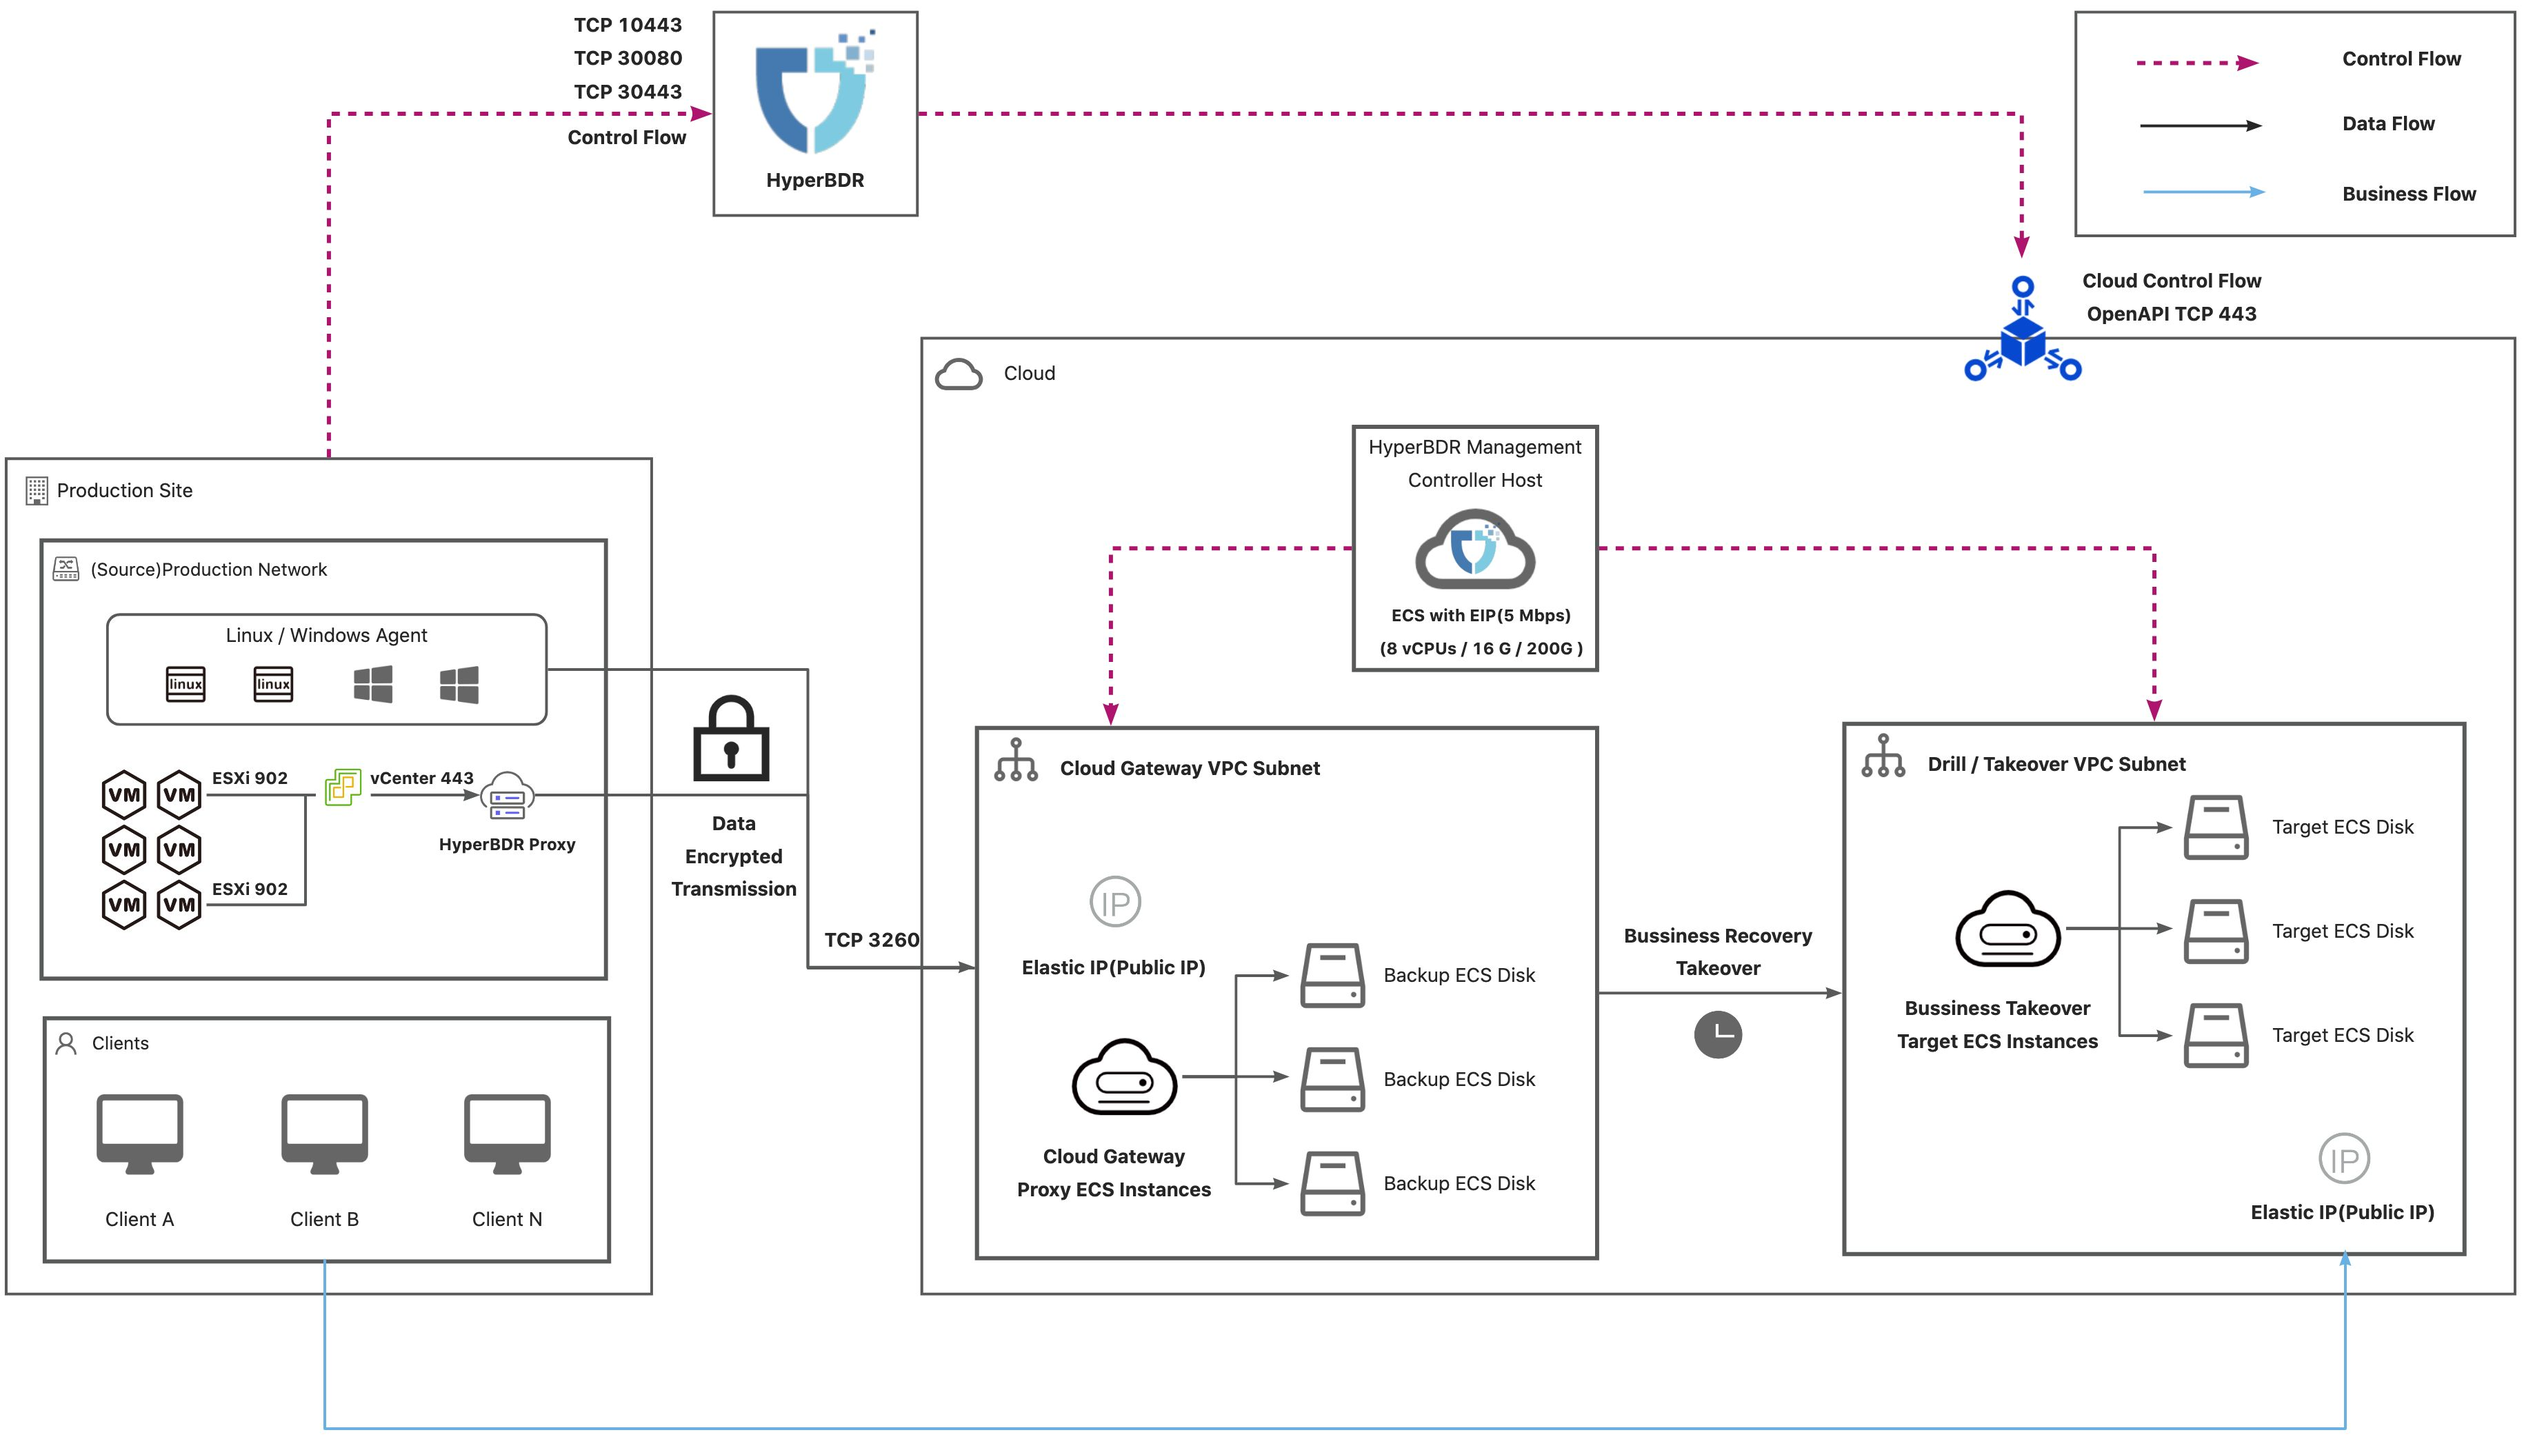
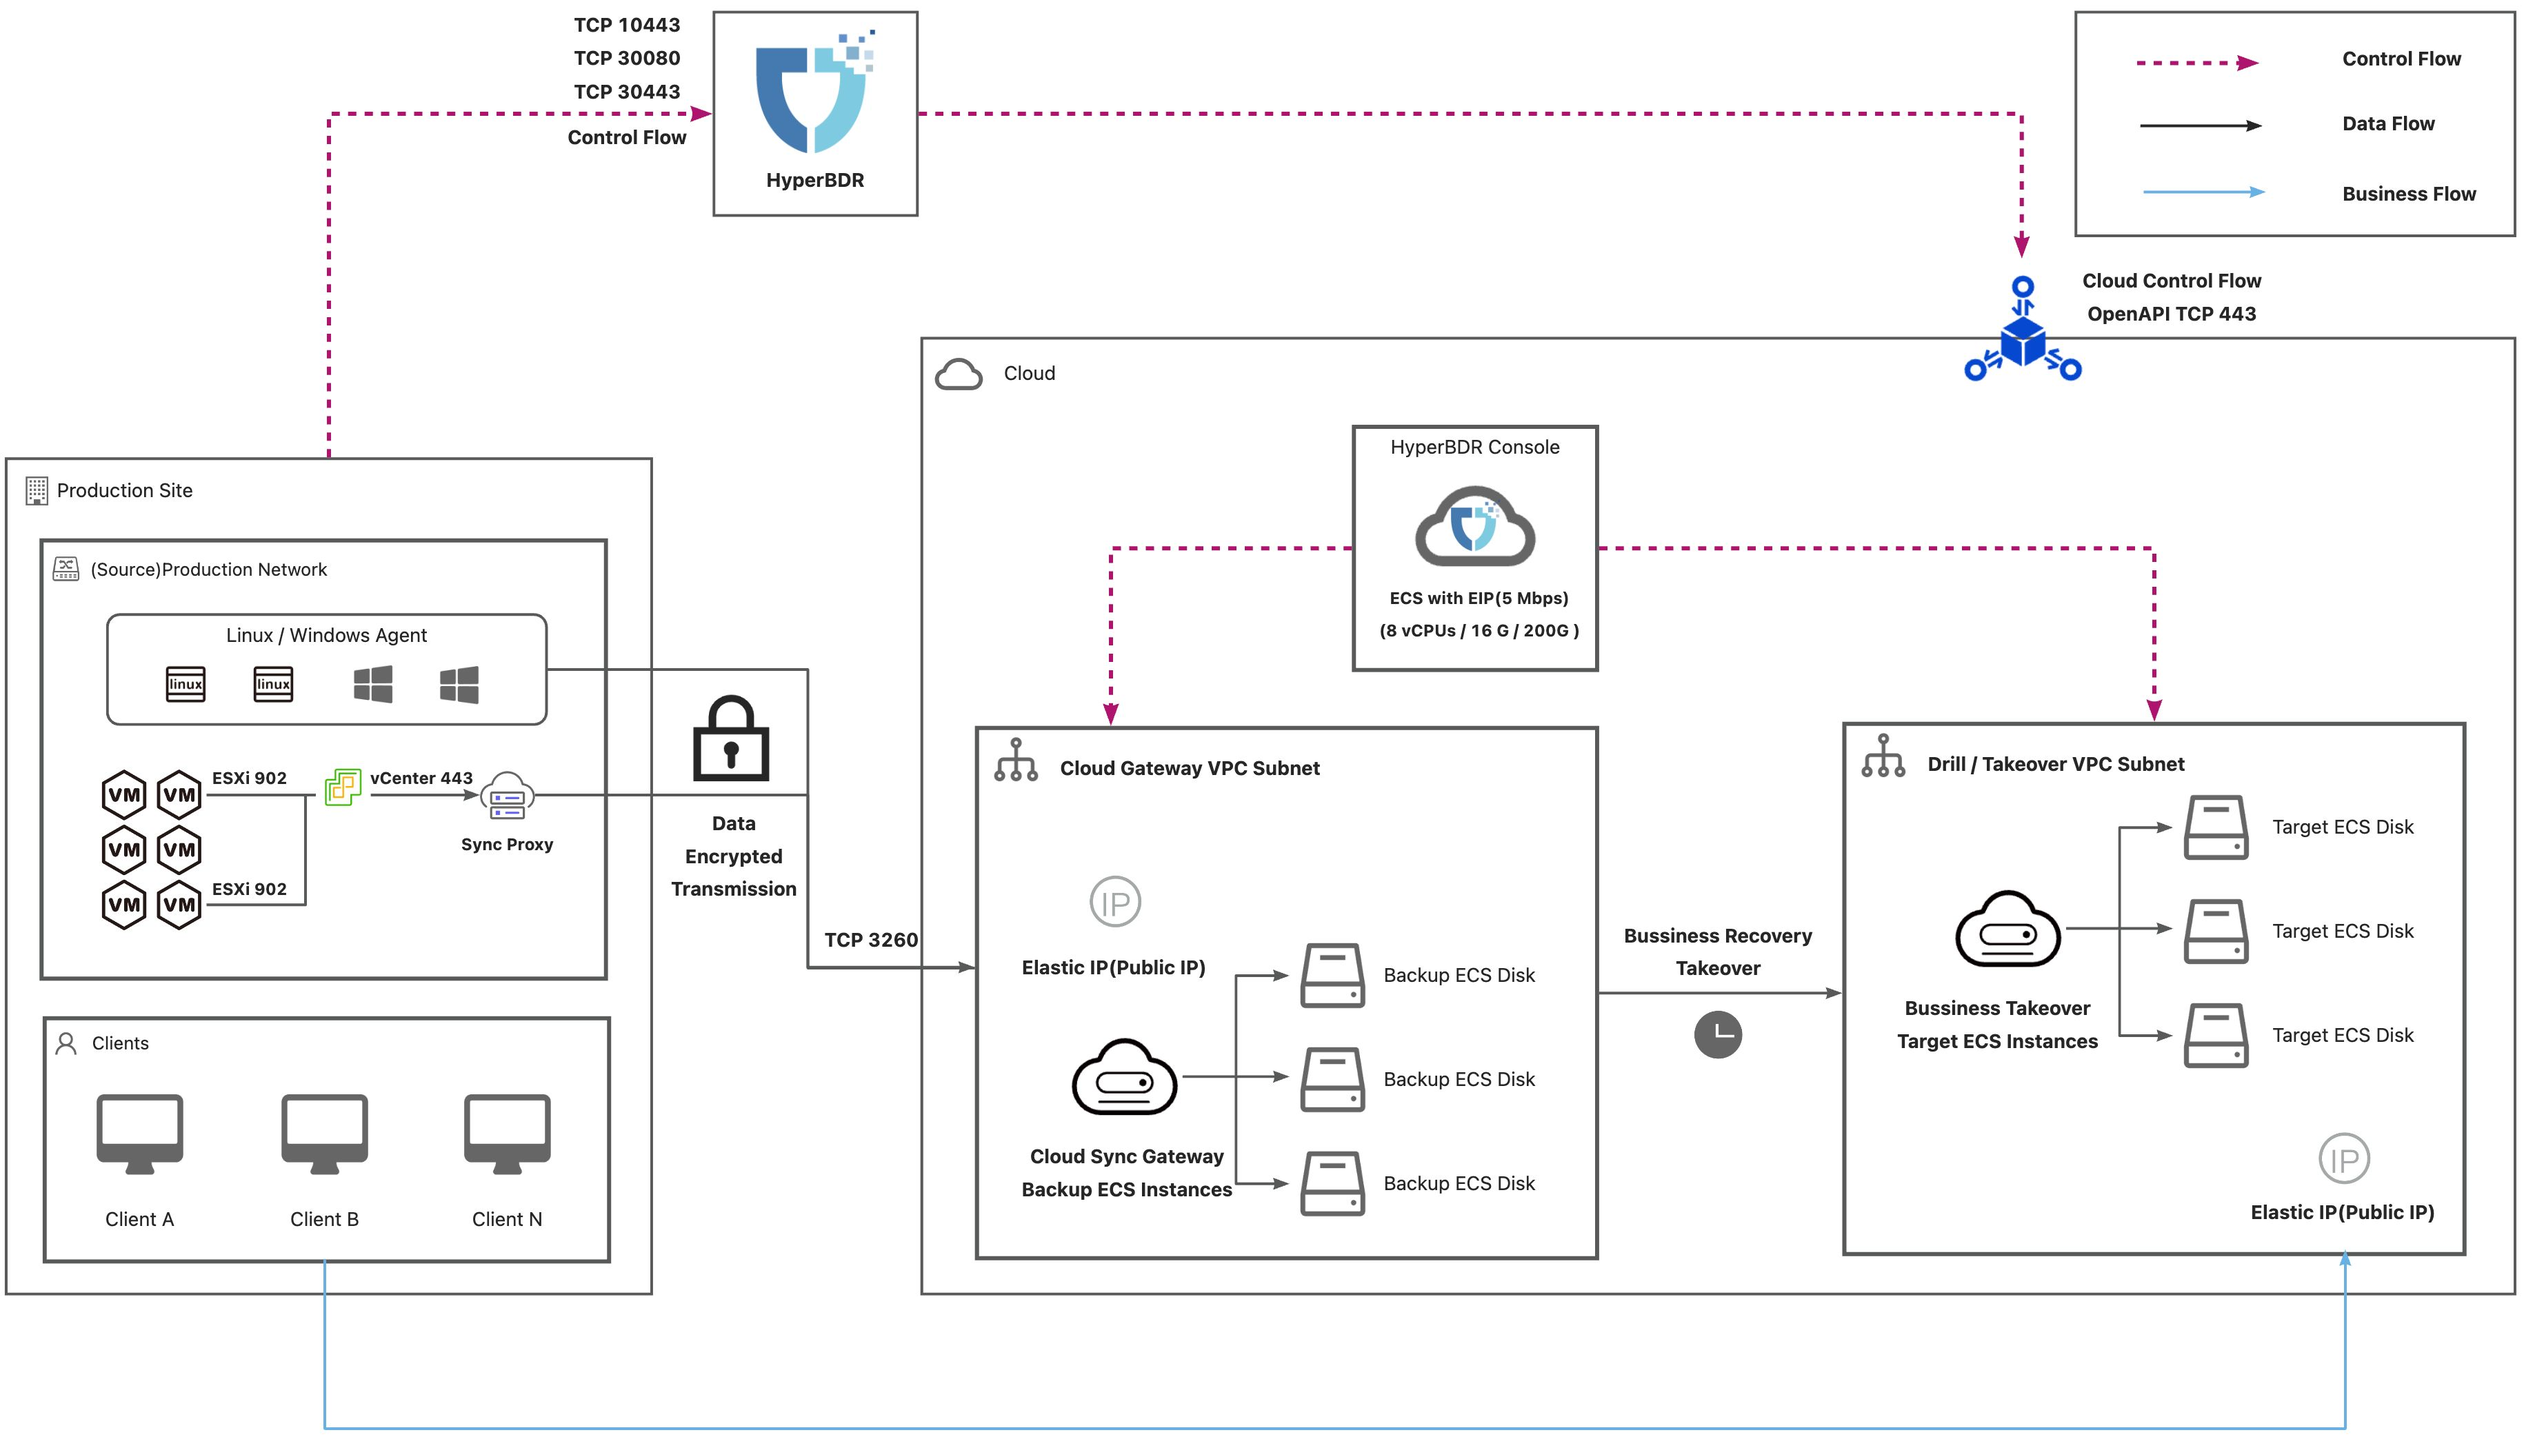
Change the product unified noun in the Chinese document

diff --git a/src/zh/userguide/presales/dr-network-planning-recommendations.md b/src/zh/userguide/presales/dr-network-planning-recommendations.md
@@ -32,25 +32,25 @@
 
 | **编号** | **来源** | **目标** | **方向** | **端口** | **类型** | **备注** |
 | --- | --- | --- | --- | --- | --- | --- |
-| 1 | Agent | HyperBDR | TCP 单向 | 10443 / 30080 | 控制流 |
+| 1 | Agent | HyperBDR Console | TCP 单向 | 10443 / 30080 | 控制流 |
 | 2 | Agent | 对象存储服务 | TCP 单向 | 443 | 数据流 |
-| 3 | HyperBDR | 对象存储服务 | TCP 单向 | 443 | 控制流 |
-| 4 | HyperBDR | Drill/Takeover VM | TCP 单向 | 10729 | 控制流 | 必须在 HyperBDR 和容灾演练/接管VM 的 VPC 之间建立 VPC Peering。端口配置将由安全组自动设置，无需特定设置。 |
-| 5 | HyperBDR | 云 API | TCP 单向 | 443 | 控制流 |
-| 6 | Drill/Takeover VM | 对象存储服务 | TCP 单向 | 443 | 数据流 |
+| 3 | HyperBDR Console | 对象存储服务 | TCP 单向 | 443 | 控制流 |
+| 4 | HyperBDR Console | Transition Host | TCP 单向 | 10729 | 控制流 | 必须在 HyperBDR Console 和容灾演练/接管VM 的 VPC 之间建立 VPC Peering。端口配置将由安全组自动设置，无需特定设置。 |
+| 5 | HyperBDR Console | 云 API | TCP 单向 | 443 | 控制流 |
+| 6 | Transition Host | 对象存储服务 | TCP 单向 | 443 | 数据流 |
 
 #### VMware 无代理
 
 | **编号** | **来源** | **目标** | **方向** | **端口** | **类型** | **备注** |
 | --- | --- | --- | --- | --- | --- | --- |
-| 1 | HyperBDR Proxy | vCenter | TCP 单向 | 443 | 控制流 |  |
-| 2 | HyperBDR Proxy | ESXi | TCP 单向 | 902 | 数据流 | 所有由 vCenter 管理的 ESXi 的端口 902 |
-| 3 | HyperBDR Proxy | HyperBDR | TCP 单向 | 10443 / 30080 | 控制流 |  |
-| 4 | HyperBDR Proxy | 对象存储服务 | TCP 单向 | 443 | 数据流 |  |
-| 5 | HyperBDR | 对象存储服务 | TCP 单向 | 443 | 控制流 |  |
-| 6 | HyperBDR | Drill/Takeover VM | TCP 单向 | 10729 | 控制流 | 必须在 HyperBDR 和容灾演练/接管VM 的 VPC 之间建立 VPC Peering。端口配置将由安全组自动设置，无需特定设置。 |
-| 7 | HyperBDR | 云 API | TCP 单向 | 443 | 控制流 |  |
-| 8 | Drill/Takeover VM | 对象存储服务 | TCP 单向 | 443 | 数据流 |
+| 1 | Sync Proxy | vCenter | TCP 单向 | 443 | 控制流 |  |
+| 2 | Sync Proxy | ESXi | TCP 单向 | 902 | 数据流 | 所有由 vCenter 管理的 ESXi 的端口 902 |
+| 3 | Sync Proxy | HyperBDR | TCP 单向 | 10443 / 30080 | 控制流 |  |
+| 4 | Sync Proxy | 对象存储服务 | TCP 单向 | 443 | 数据流 |  |
+| 5 | HyperBDR Console | 对象存储服务 | TCP 单向 | 443 | 控制流 |  |
+| 6 | HyperBDR Console | Transition Host | TCP 单向 | 10729 | 控制流 | 必须在 HyperBDR Console 和容灾演练/接管VM 的 VPC 之间建立 VPC Peering。端口配置将由安全组自动设置，无需特定设置。 |
+| 7 | HyperBDR Console | 云 API | TCP 单向 | 443 | 控制流 |  |
+| 8 | Transition Host | 对象存储服务 | TCP 单向 | 443 | 数据流 |
 
 ### 部署架构
 
@@ -83,21 +83,21 @@
 
 | **编号** | **来源** | **目标** | **方向** | **端口** | **类型** | **备注** |
 | --- | --- | --- | --- | --- | --- | --- |
-| 1 | Agent | HyperBDR | TCP 单向 | 10443 / 30080 | 控制流 |
-| 2 | Agent | HyperBDR Cloud Proxy | TCP 单向 | 3260 | 数据流 |
-| 3 | HyperBDR | HyperBDR Cloud Proxy | TCP 单向 | 22 / 10729 | 控制流 | 必须在 HyperBDR 和容灾演练/接管VM 的 VPC 之间建立 VPC Peering。端口配置将由安全组自动设置，无需特定设置。 |
-| 4 | HyperBDR | 云 API | TCP 单向 | 443 | 控制流 |
+| 1 | Agent | HyperBDR Console | TCP 单向 | 10443 / 30080 | 控制流 |
+| 2 | Agent | Cloud Sync Proxy | TCP 单向 | 3260 | 数据流 |
+| 3 | HyperBDR Console | Cloud Sync Proxy | TCP 单向 | 22 / 10729 | 控制流 | 必须在 HyperBDR Console 和容灾演练/接管VM 的 VPC 之间建立 VPC Peering。端口配置将由安全组自动设置，无需特定设置。 |
+| 4 | HyperBDR Console | 云 API | TCP 单向 | 443 | 控制流 |
 
 #### 无代理
 
 | **编号** | **来源** | **目标** | **方向** | **端口** | **类型** | **备注** |
 | --- | --- | --- | --- | --- | --- | --- |
-| 1 | HyperBDR Proxy | vCenter | TCP 单向 | 443 | 控制流 |  |
-| 2 | HyperBDR Proxy | ESXi | TCP 单向 | 902 | 数据流 | 所有由 vCenter 管理的 ESXi 的端口 902 |
-| 3 | HyperBDR Proxy | HyperBDR | TCP 单向 | 10443 / 30080 | 控制流 |  |
-| 4 | HyperBDR Proxy | HyperBDR Cloud Proxy | TCP 单向 | 3260 | 数据流 |  |
-| 5 | HyperBDR | HyperBDR 云代理 | TCP 单向 | 22 / 10729 | 控制流 | 必须在 HyperBDR 和容灾演练/接管 VM 的 VPC 之间建立 VPC Peering。端口配置将由安全组自动设置，无需特定设置。 |
-| 6 | HyperBDR | 云 API | TCP 单向 | 443 | 控制流 |
+| 1 | Sync Proxy | vCenter | TCP 单向 | 443 | 控制流 |  |
+| 2 | Sync Proxy | ESXi | TCP 单向 | 902 | 数据流 | 所有由 vCenter 管理的 ESXi 的端口 902 |
+| 3 | Sync Proxy | HyperBDR Console | TCP 单向 | 10443 / 30080 | 控制流 |  |
+| 4 | Sync Proxy | Cloud Sync Proxy | TCP 单向 | 3260 | 数据流 |  |
+| 5 | HyperBDR Console | Cloud Sync Proxy | TCP 单向 | 22 / 10729 | 控制流 | 必须在 HyperBDR Console 和容灾演练/接管 VM 的 VPC 之间建立 VPC Peering。端口配置将由安全组自动设置，无需特定设置。 |
+| 6 | HyperBDR Console | 云 API | TCP 单向 | 443 | 控制流 |
 
 ### 部署架构
 
@@ -123,9 +123,9 @@
 
 | **编号** | **访问来源** | **访问目标** | **通信方向** | **开放端口** | **通讯类型** | **备注** |
 | --- | --- | --- | --- | --- | --- | --- |
-| 1 | 容灾接管/演练VM（Agent）| HyperBDR | TCP 单向 | 10443 / 30080 | 控制流 |
-| 2 | 容灾接管/演练VM（Agent）| 回切网关 VM | TCP 单向 | 3260 | 数据流 |
-| 3 | HyperBDR | 回切网关 VM | TCP 单向 | 10729 | 控制流 |
+| 1 | Failback Agent | HyperBDR Console | TCP 单向 | 10443 / 30080 | 控制流 |
+| 2 | Failback Agent | Failback Transition Host | TCP 单向 | 3260 | 数据流 |
+| 3 | HyperBDR Console | Failback Transition Host | TCP 单向 | 10729 | 控制流 |
 
 ### 对象存储
 
@@ -137,13 +137,13 @@
 
 | **编号** | **来源** | **目标** | **方向** | **端口** | **类型** | **备注** |
 | --- | --- | --- | --- | --- | --- | --- |
-| 1 | 容灾接管/演练VM（Agent） | HyperBDR | TCP 单向 | 10443 / 30080 | 控制流 |
-| 2 | 容灾接管/演练VM（Agent） | 对象存储服务 | TCP 单向 | 443 | 数据流 |
-| 3 | HyperBDR | 对象存储服务 | TCP 单向 | 443 | 控制流 |
-| 4 | HyperBDR | 回切网关 VM | TCP 单向 | 10729 | 控制流 |
-| 5 | HyperBDR | 云 API | TCP 单向 | 443 | 控制流 |
-| 6 | HyperBDR | vCenter/ESXi | TCP 单向 | 443/902 | 控制流 |
-| 7 | 回切网关 VM | 对象存储服务 | TCP 单向 | 443 | 数据流 |
+| 1 | Failback Agent | HyperBDR Console | TCP 单向 | 10443 / 30080 | 控制流 |
+| 2 | Failback Agent | 对象存储服务 | TCP 单向 | 443 | 数据流 |
+| 3 | HyperBDR Console | 对象存储服务 | TCP 单向 | 443 | 控制流 |
+| 4 | HyperBDR Console | Failback Transition Host | TCP 单向 | 10729 | 控制流 |
+| 5 | HyperBDR Console | 云 API | TCP 单向 | 443 | 控制流 |
+| 6 | HyperBDR Console | vCenter/ESXi | TCP 单向 | 443/902 | 控制流 |
+| 7 | Failback Transition Host | 对象存储服务 | TCP 单向 | 443 | 数据流 |
 
 ## 容灾网络规划
 
